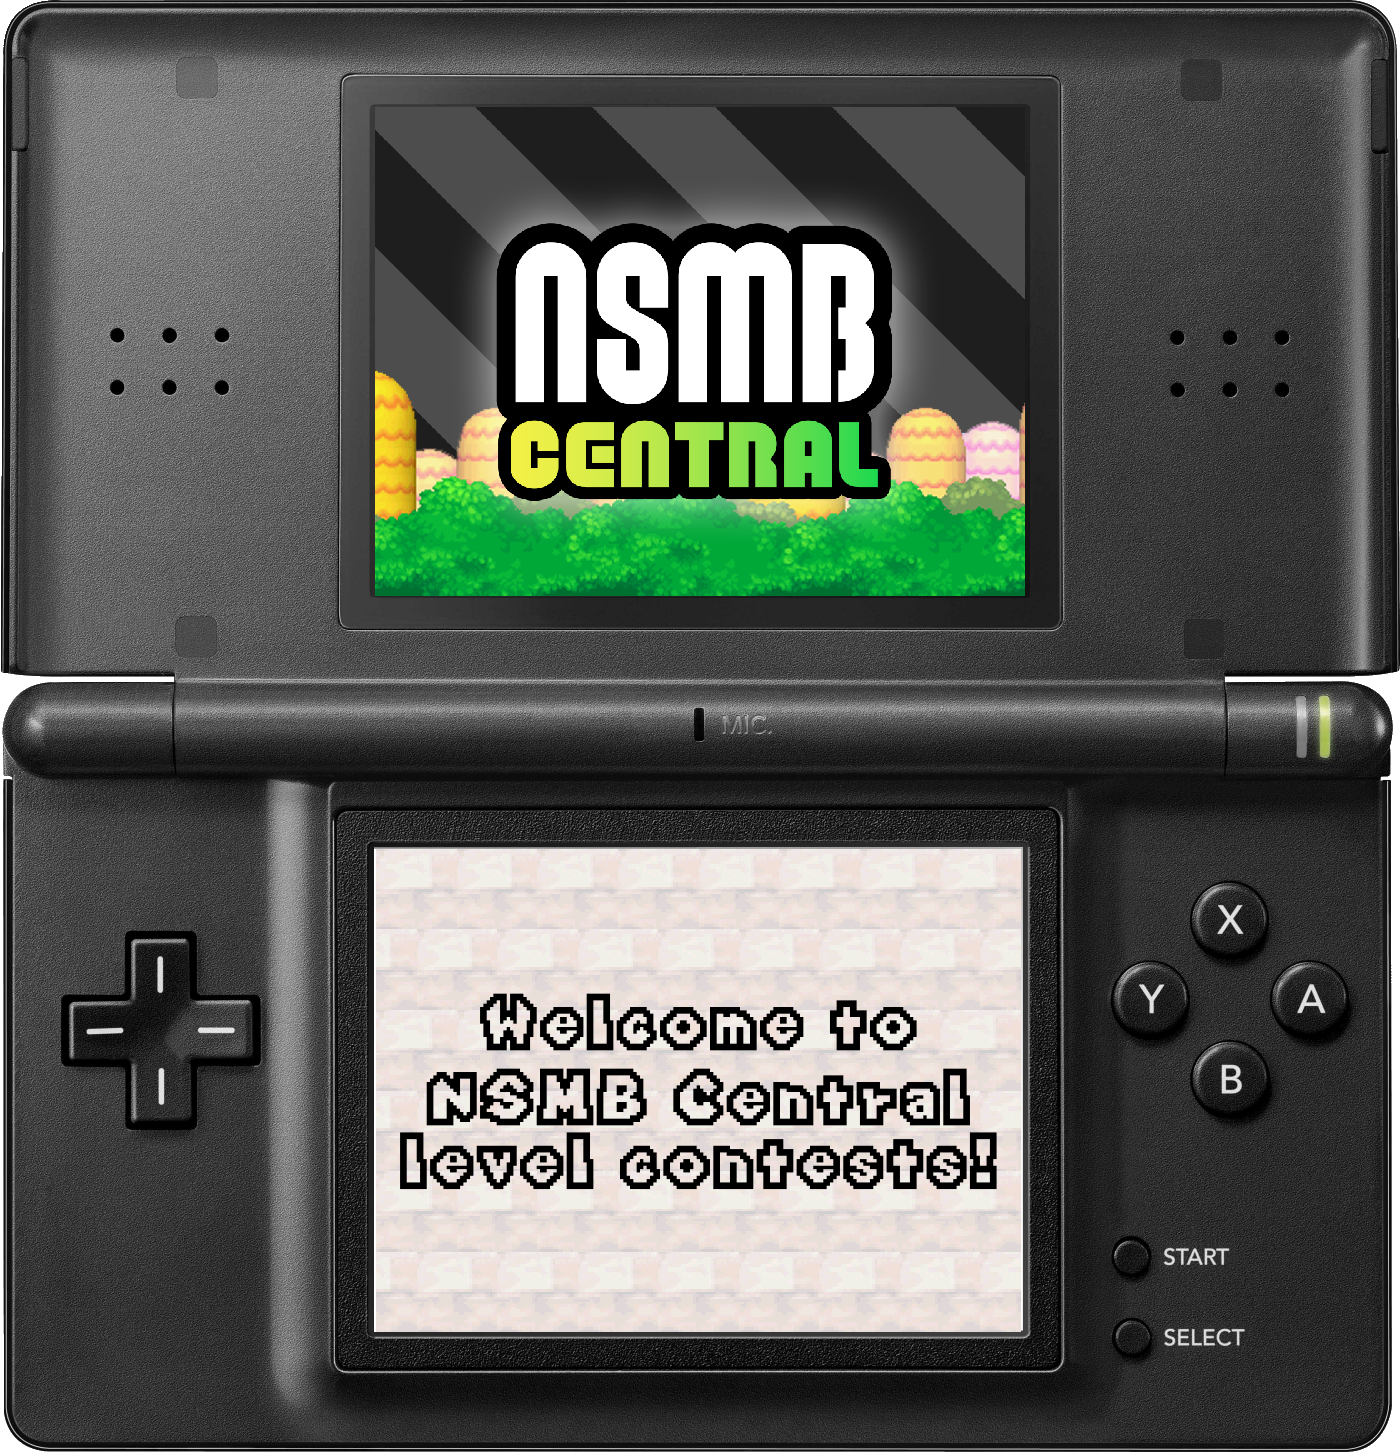
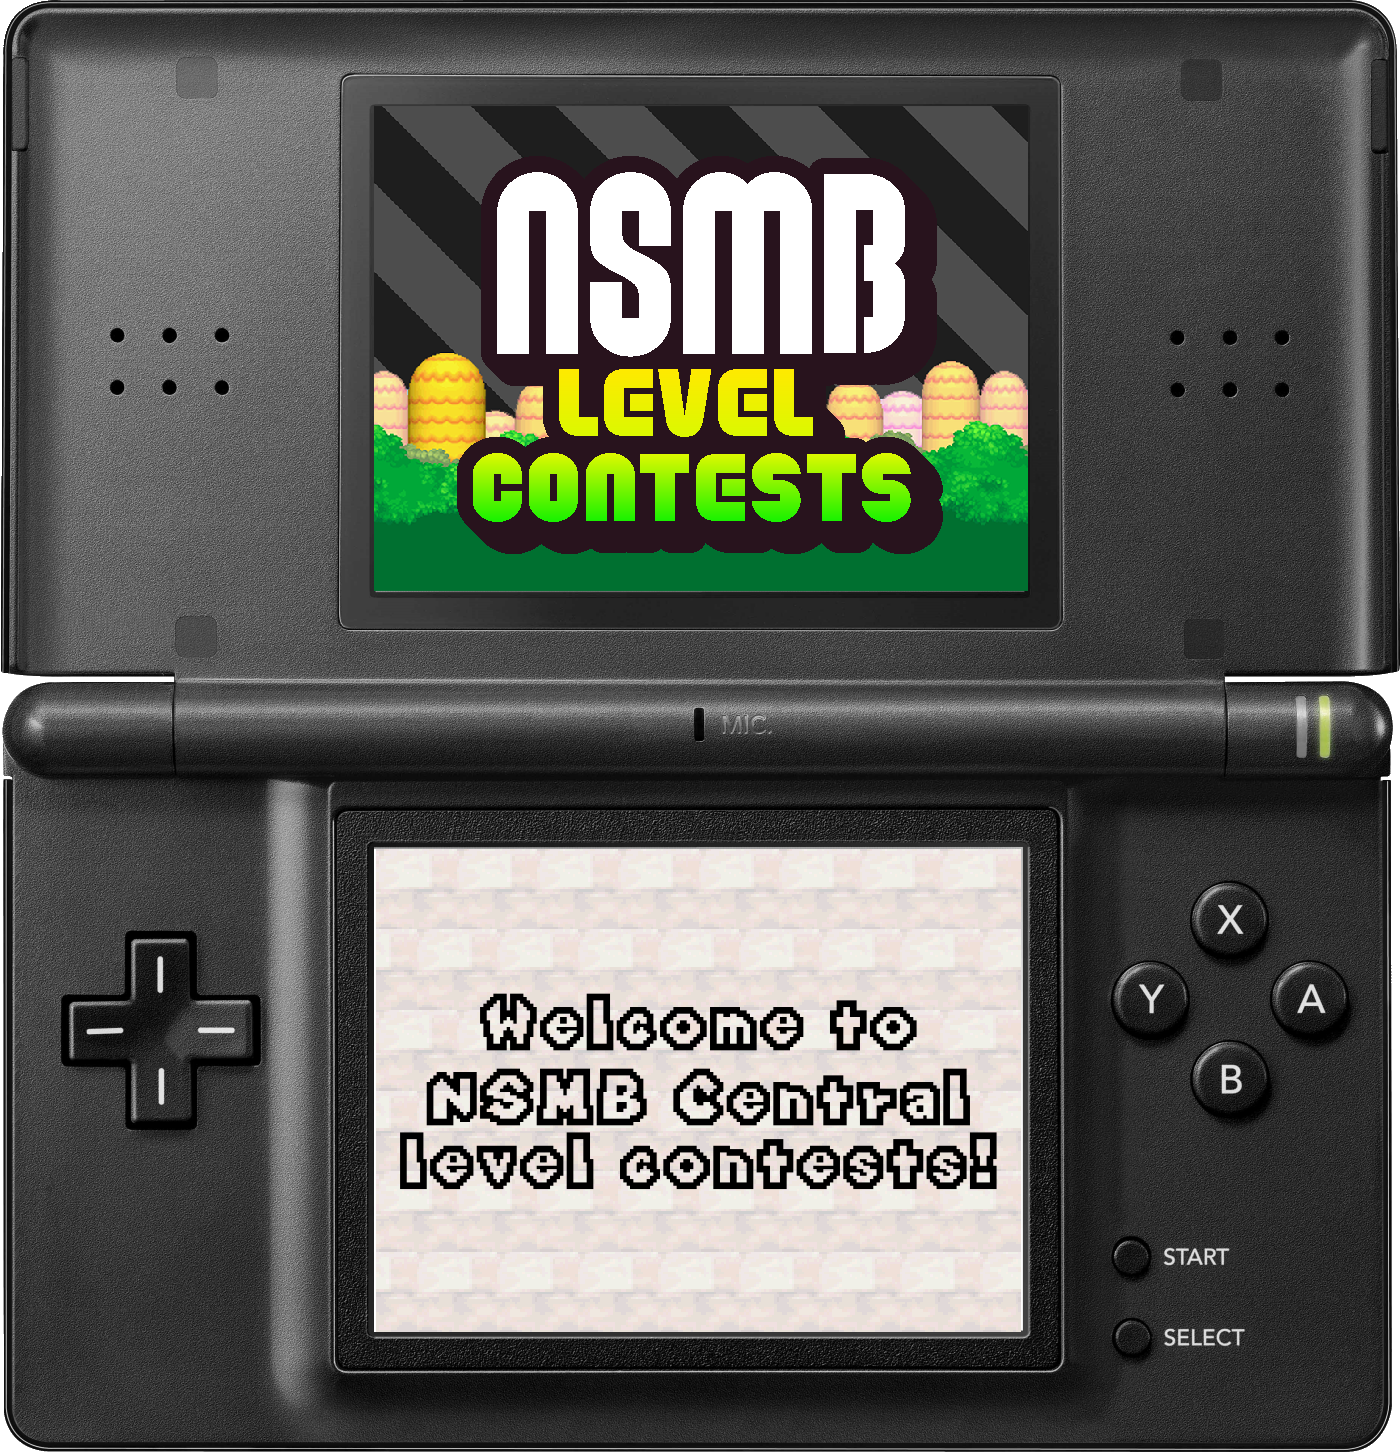
Fixed embed

Changed region(s): [[0.2457, 0.062, 0.7371, 0.4339]]

diff --git a/about/index.html b/about/index.html
@@ -1,0 +1,63 @@
+<!DOCTYPE html>
+<html lang="en">
+
+<head>
+  <meta charset="UTF-8">
+  <title>NSMB Central Level Contests</title>
+  <link rel="icon" type="image/x-icon" href="https://raw.githubusercontent.com/Rph-nsmb/contests/refs/heads/main/assets/nsmbc.png">
+  
+  <meta content="NSMB Central Level Contests" property="og:title" />
+  <meta content="https://raw.githubusercontent.com/Rph-nsmb/contests/refs/heads/main/assets/contest.png" property="og:image" />
+  <meta content="Participate to unofficial NSMB modding level contests and show us your creativity!" property="og:description" />
+  <meta content="#00b60f" data-react-helmet="true" name="theme-color"/>
+
+
+  <link href="https://cdn.jsdelivr.net/gh/Rph-nsmb/contests@41df28b/assets/style.css" rel="stylesheet">
+  <!--link href="file:///home/rph/Documents/NSMB level contests/contests/assets/style.css" rel="stylesheet"-->
+
+
+</head>
+
+<body>
+
+  <div class="navbar">
+    <div class="navbar_inside">
+
+		<div class="navbar_l"><a href="https://nsmbcentral.net"><div class="navbar_icon"><img src="https://raw.githubusercontent.com/Rph-nsmb/contests/refs/heads/main/assets/nsmbc.png" style="height:100%"></div></a></div>
+
+		<div class="navbar_m"></div>
+
+		<div class="navbar_r"><a href="" class="nolink">About</a></div>
+		<div class="navbar_r"><a href="" class="nolink">Contests</a></div>
+		<div class="navbar_r"><a href="https://discord.gg/9ZWR2Fdaq8" class="nolink">Discord</a></div>
+
+    </div>
+  </div>
+
+	<br>
+
+	<div class="flex-column">
+	
+	
+	<div class="warning_box">
+		<h1>Warning: we are not affiliated with NSMB Central. Please go down below for more information.</h1>
+	
+	</div>
+
+	<div><h1 style="font-size:96px;">About</h1>
+
+	<p style="font-size:48px">NSMB(C) level contests is a <a href="https://discord.gg/9ZWR2Fdaq8">Discord server</a> created by Mariorrt and Rph. It aims to be a place where modders can submit contests and show their creativity by participating to them.</p></div>
+
+	<div class="warning_box"><h1 style="font-size:64px;">Note to NSMB Central's staff</h1>
+	
+	<p style="font-size:36px; font-weight:bold; padding: 0px 2rem;">
+		
+	This server has been created to allow unofficial contests, and it is its only purpose. We do not want to replace Central. We do not want to replace the staff members.<br>
+	This server has been created because making constests hasn't been allowed. If you don't approve that, you can just not join the server. <u> This server will not be used to criticize Central or its members. </u><br>
+	This server aims to be a sub-server of Central. Therefore, the staff of NSMB Central has a control over the website and the server. They can take it down, <u> but we adwise the staff to not do it. </u>
+
+	</p></div>
+	
+	</div>
+
+</body>
